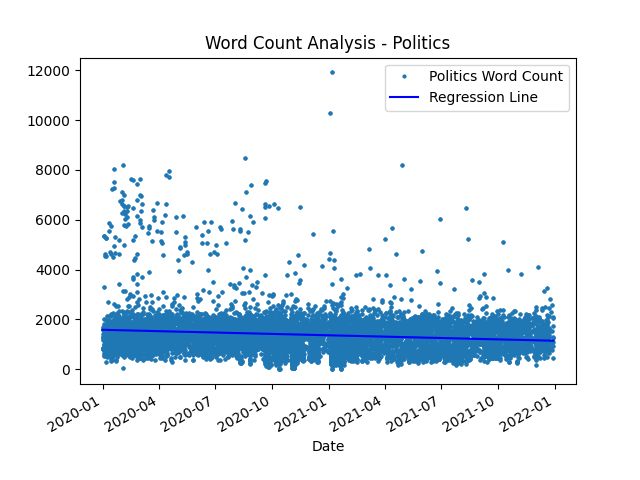
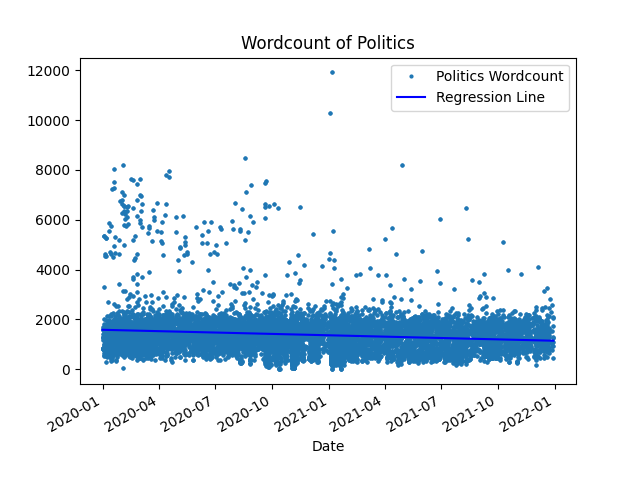
Moved functions to above to run by command

Changed region(s): [[0.3125, 0.0625, 0.6875, 0.125], [0.625, 0.125, 0.875, 0.2188], [0.5938, 0.1875, 0.625, 0.2188]]

diff --git a/Analysing/Wordcount/Graph.py b/Analysing/Wordcount/Graph.py
@@ -1,8 +1,5 @@
 import sqlite3
-import matplotlib.pyplot as plt
-import numpy as np
-import pandas as pd
-from sklearn.linear_model import LinearRegression
+from Analysing.Plotting import graph
 
 connection = sqlite3.connect("Analysing\Wordcount\wordcount.db")
 cursor = connection.cursor()
@@ -16,37 +13,11 @@ for i in range(len(topics)):
     color = colors[i]
     regression_color = colors_reg[i]
 
-
-
     cursor.execute(f"SELECT * FROM {topic};")
     rows = cursor.fetchall()
 
+    columns = [column[0] for column in cursor.description]
 
-    Dataframe = pd.DataFrame(
-        rows, columns=[column[0] for column in cursor.description])
+    graph(rows, columns, "wordcount", f"{topic} Wordcount", f"Wordcount of {topic}", ["id", "idx"],
+                    color, regression_color, True, 2, f"Analysing\Wordcount\output\{topic}.png")
 
-
-    Dataframe = Dataframe.drop(columns=['id'])
-    Dataframe = Dataframe.drop(columns=['idx'])
-
-    Dataframe['date'] = pd.to_datetime(Dataframe['date'])
-    Dataframe.set_index('date', inplace=True)
-
-    Dataframe.plot(style='o', markersize=2, color=f'{color}')
-
-
-    X = Dataframe.index.astype(np.int64).values.reshape(-1, 1)
-    y = Dataframe['wordcount']
-    model = LinearRegression()
-    model.fit(X, y)
-    y_pred = model.predict(X)
-    plt.plot(Dataframe.index, y_pred, color=f'{regression_color}')
-
-
-    plt.xlabel("Date")
-    plt.ylabel("")
-    plt.legend([f"{topic} Word Count", "Regression Line"])
-    plt.title(f"Word Count Analysis - {topic}")
-    plt.savefig(f"Analysing\Wordcount\output\{topic}.png")
-
-    plt.close()

diff --git a/Analysing/Wordcount/Graph All.py b/Analysing/Wordcount/Graph All.py
@@ -1,5 +1,5 @@
 import sqlite3
-import Analysing.Wordcount.Functions as Functions
+from Analysing.Plotting import graph
 
 
 connection = sqlite3.connect(r"Analysing\Wordcount\wordcount.db")
@@ -17,5 +17,5 @@ for topic in topics:
 
 columns = [column[0] for column in cursor.description]
 
-Functions.graph(rows, columns, "wordcount", "Wordcount", "Wordcount of all three topics", ["id", "idx"],
-                color, color_reg, True, 2, r"Analysing\Wordcount\output\All.png")
+graph(rows, columns, "wordcount", "Wordcount", "Wordcount of all three topics", ["id", "idx"],
+      color, color_reg, True, 2, r"Analysing\Wordcount\output\All.png")

diff --git a/Analysing/Plotting.py b/Analysing/Plotting.py
@@ -42,6 +42,7 @@ def graph(rows, column_names, name, title1, title2, drop_columns, color, color_r
     # Customize plot labels and title
     plt.xlabel("Date")
     plt.ylabel("")
+    legend = [{title1, "Regression Line"}] if regression else [title1]
     plt.legend([title1, "Regression Line"])
     plt.title(title2)
     plt.savefig(output)
